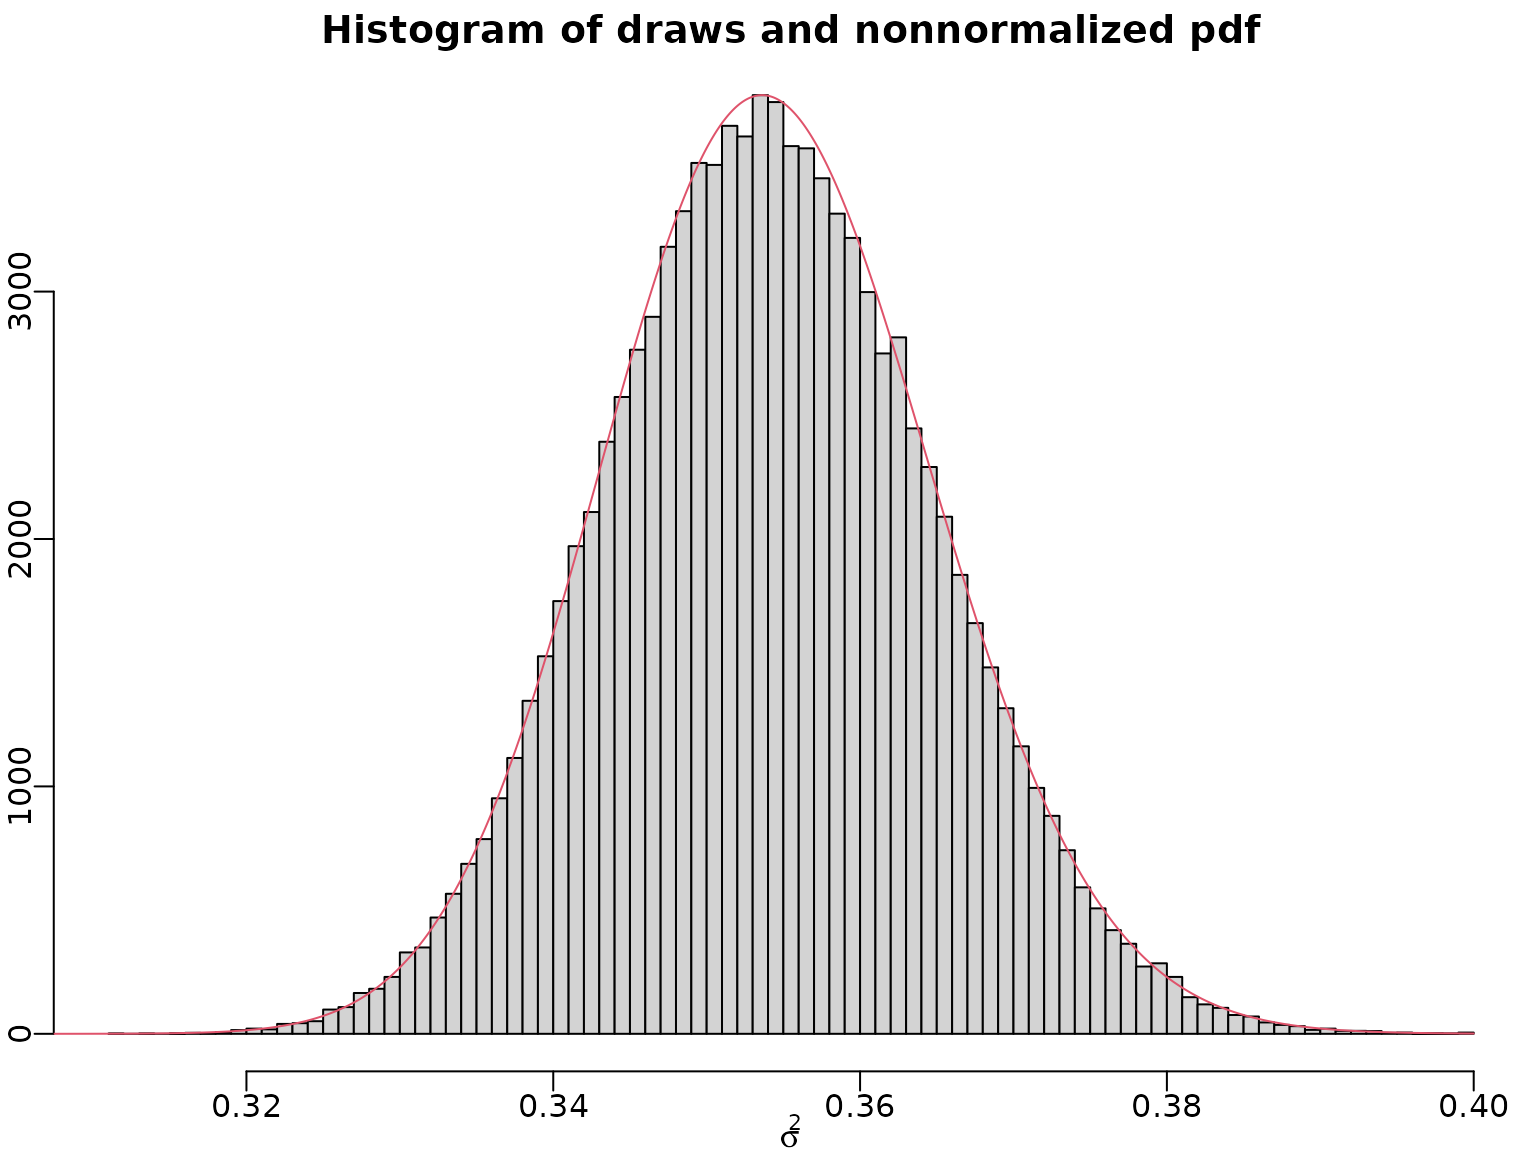
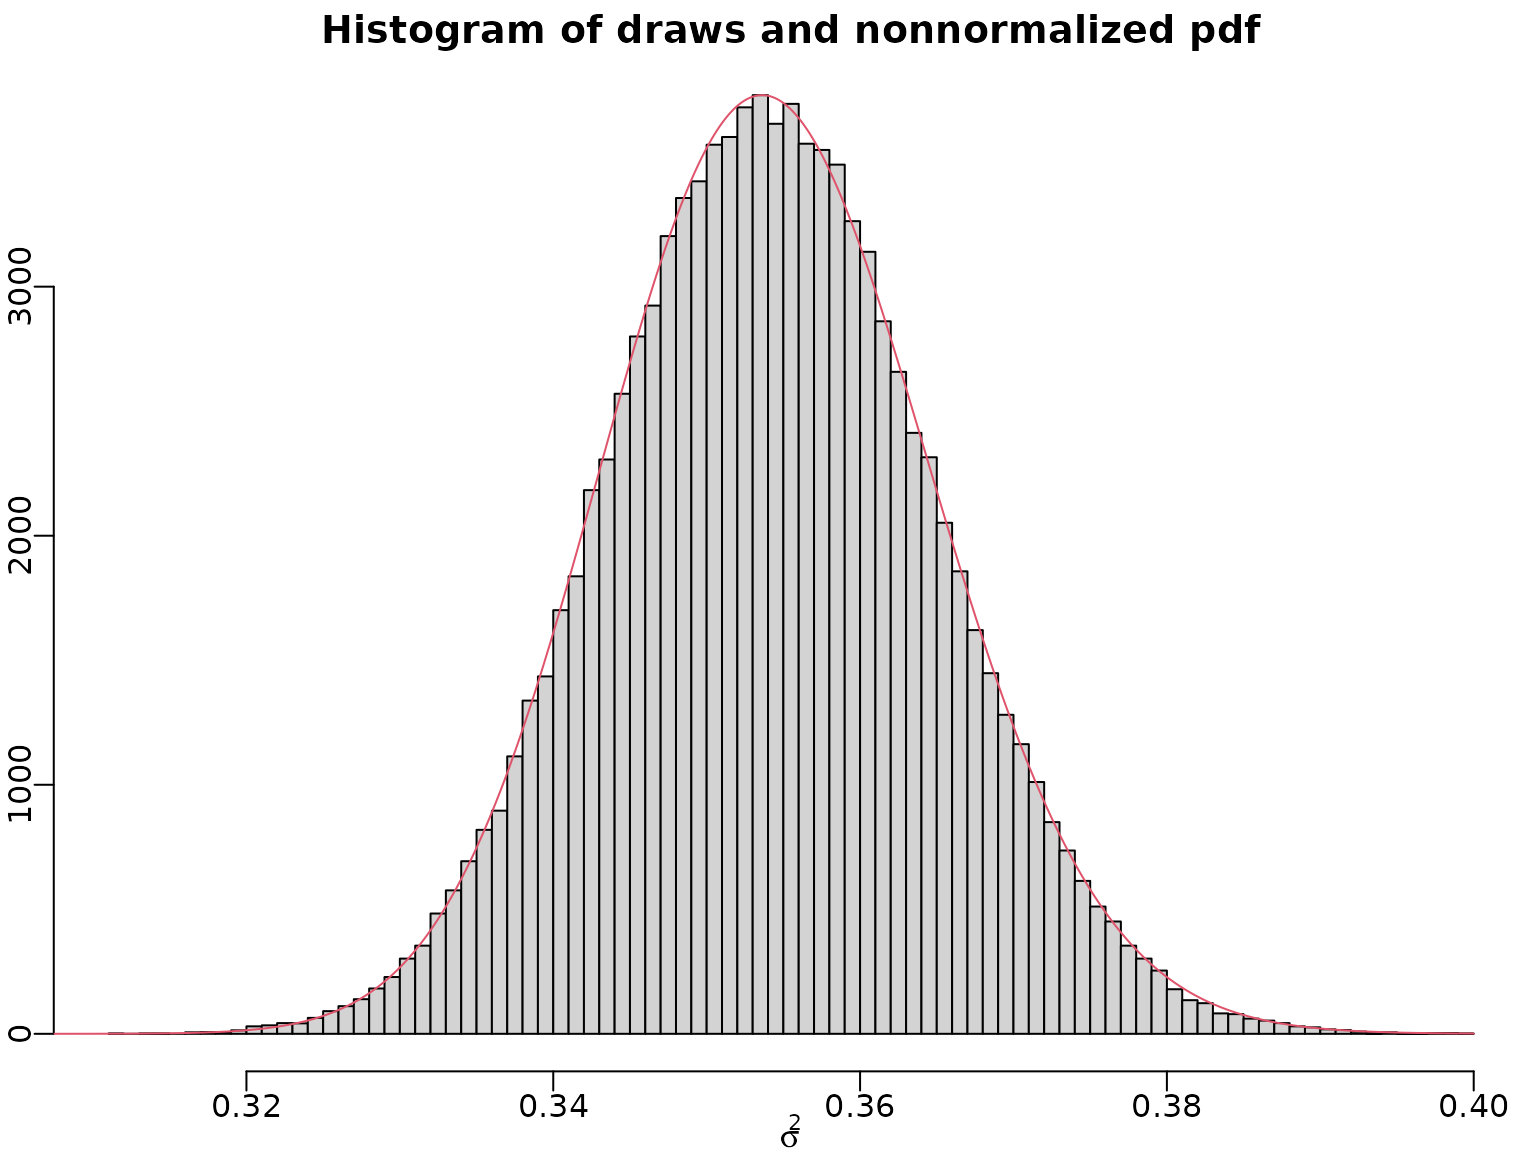
Deploying to gh-pages from @ gregorkastner/BayesianLearningCode@a200779b6965870e2d02ea35860350c8d1ae64b9 🚀

diff --git a/articles/Chapter04.html b/articles/Chapter04.html
@@ -304,10 +304,13 @@ fasted of all methods in R, but will do just fine for our use-case).</p>
 </h3>
 <p>To learn about the distribution of a certain low quantile, the
 Value-at-Risk (VaR), we can generate draws from it. For the Gaussian
-model, we simulate from
-<math display="inline" xmlns="http://www.w3.org/1998/Math/MathML"><semantics><mrow><msup><mi>𝒢</mi><mrow><mo>−</mo><mn>1</mn></mrow></msup><mrow><mo stretchy="true" form="prefix">(</mo><msub><mi>c</mi><mi>N</mi></msub><mo>,</mo><msub><mi>C</mi><mi>N</mi></msub><mo stretchy="true" form="postfix">)</mo></mrow></mrow><annotation encoding="application/x-tex">\mathcal{G}^{-1}(c_N, C_N)</annotation></semantics></math>
-and then, conditionally on these draws, from
-<math display="inline" xmlns="http://www.w3.org/1998/Math/MathML"><semantics><mrow><mi>𝒩</mi><mrow><mo stretchy="true" form="prefix">(</mo><mover><mi>y</mi><mo accent="true">‾</mo></mover><mo>,</mo><msup><mi>σ</mi><mn>2</mn></msup><mi>/</mi><mi>N</mi><mo stretchy="true" form="postfix">)</mo></mrow></mrow><annotation encoding="application/x-tex">\mathcal{N}(\bar{y}, \sigma^2 / N)</annotation></semantics></math>.
+model with mean zero and
+<math display="inline" xmlns="http://www.w3.org/1998/Math/MathML"><semantics><mrow><mi>p</mi><mrow><mo stretchy="true" form="prefix">(</mo><msup><mi>σ</mi><mn>2</mn></msup><mo stretchy="true" form="postfix">)</mo></mrow><mo>∝</mo><msup><mi>σ</mi><mrow><mo>−</mo><mn>2</mn></mrow></msup></mrow><annotation encoding="application/x-tex">p(\sigma^2) \propto \sigma^{-2}</annotation></semantics></math>,
+we simulate from
+<math display="inline" xmlns="http://www.w3.org/1998/Math/MathML"><semantics><mrow><msup><mi>𝒢</mi><mrow><mo>−</mo><mn>1</mn></mrow></msup><mrow><mo stretchy="true" form="prefix">(</mo><mi>N</mi><mi>/</mi><mn>2</mn><mo>,</mo><mo>∑</mo><msubsup><mi>y</mi><mi>i</mi><mn>2</mn></msubsup><mi>/</mi><mn>2</mn><mo stretchy="true" form="postfix">)</mo></mrow></mrow><annotation encoding="application/x-tex">\mathcal{G}^{-1}(N/2, \sum{y_i^2}/2)</annotation></semantics></math>
+and then, conditionally on these draws, compute the quantiles of
+interest from
+<math display="inline" xmlns="http://www.w3.org/1998/Math/MathML"><semantics><mrow><mi>𝒩</mi><mrow><mo stretchy="true" form="prefix">(</mo><mn>0</mn><mo>,</mo><msup><mi>σ</mi><mn>2</mn></msup><mo stretchy="true" form="postfix">)</mo></mrow></mrow><annotation encoding="application/x-tex">\mathcal{N}(0, \sigma^2)</annotation></semantics></math>.
 Note, again, that R’s vectorization ability comes in handy. Here, in
 particular, <em>rnorm</em> can handle the so-called <em>varying
 parameter case</em>.</p>
@@ -315,9 +318,8 @@ parameter case</em>.</p>
 <code class="sourceCode R"><span><span class="fu"><a href="https://rdrr.io/r/base/Random.html" class="external-link">set.seed</a></span><span class="op">(</span><span class="fl">42</span><span class="op">)</span></span>
 <span><span class="va">alpha</span> <span class="op">&lt;-</span> <span class="fl">0.005</span></span>
 <span><span class="va">ndraws</span> <span class="op">&lt;-</span> <span class="fl">100000</span></span>
-<span><span class="va">sigma2draws</span> <span class="op">&lt;-</span> <span class="fu">rinvgamma</span><span class="op">(</span><span class="va">ndraws</span>, <span class="va">cN</span>, <span class="va">CN</span><span class="op">)</span></span>
-<span><span class="va">mudraws</span> <span class="op">&lt;-</span> <span class="fu"><a href="https://rdrr.io/r/stats/Normal.html" class="external-link">rnorm</a></span><span class="op">(</span><span class="va">ndraws</span>, <span class="fu"><a href="https://rdrr.io/r/base/mean.html" class="external-link">mean</a></span><span class="op">(</span><span class="va">y</span><span class="op">)</span>, <span class="fu"><a href="https://rdrr.io/r/base/MathFun.html" class="external-link">sqrt</a></span><span class="op">(</span><span class="va">sigma2draws</span> <span class="op">/</span> <span class="va">N</span><span class="op">)</span><span class="op">)</span></span>
-<span><span class="va">qnormdraws</span> <span class="op">&lt;-</span> <span class="fu"><a href="https://rdrr.io/r/stats/Normal.html" class="external-link">qnorm</a></span><span class="op">(</span><span class="va">alpha</span>, <span class="va">mudraws</span>, <span class="fu"><a href="https://rdrr.io/r/base/MathFun.html" class="external-link">sqrt</a></span><span class="op">(</span><span class="va">sigma2draws</span><span class="op">)</span><span class="op">)</span></span></code></pre></div>
+<span><span class="va">sigma2draws</span> <span class="op">&lt;-</span> <span class="fu">rinvgamma</span><span class="op">(</span><span class="va">ndraws</span>, <span class="va">N</span> <span class="op">/</span> <span class="fl">2</span>, <span class="fu"><a href="https://rdrr.io/r/base/sum.html" class="external-link">sum</a></span><span class="op">(</span><span class="va">y</span><span class="op">^</span><span class="fl">2</span><span class="op">)</span> <span class="op">/</span> <span class="fl">2</span><span class="op">)</span></span>
+<span><span class="va">qnormdraws</span> <span class="op">&lt;-</span> <span class="fu"><a href="https://rdrr.io/r/stats/Normal.html" class="external-link">qnorm</a></span><span class="op">(</span><span class="va">alpha</span>, <span class="fl">0</span>, <span class="fu"><a href="https://rdrr.io/r/base/MathFun.html" class="external-link">sqrt</a></span><span class="op">(</span><span class="va">sigma2draws</span><span class="op">)</span><span class="op">)</span></span></code></pre></div>
 <p>For the
 <math display="inline" xmlns="http://www.w3.org/1998/Math/MathML"><semantics><mi>t</mi><annotation encoding="application/x-tex">t</annotation></semantics></math>
 model, we can use inverse transform sampling. First, we draw uniformly
@@ -349,7 +351,7 @@ draws.</p>
 <span>                length.out <span class="op">=</span> <span class="fl">100</span><span class="op">)</span></span>
 <span><span class="fu"><a href="https://rdrr.io/r/graphics/hist.html" class="external-link">hist</a></span><span class="op">(</span><span class="va">qnormdraws</span>, breaks <span class="op">=</span> <span class="va">mybreaks</span>, ylab <span class="op">=</span> <span class="st">""</span>, xlab <span class="op">=</span> <span class="fu"><a href="https://rdrr.io/r/base/bquote.html" class="external-link">bquote</a></span><span class="op">(</span><span class="va">Q</span><span class="op">[</span><span class="fu">.</span><span class="op">(</span><span class="va">alpha</span><span class="op">)</span><span class="op">]</span><span class="op">)</span>,</span>
 <span>     main <span class="op">=</span> <span class="fu"><a href="https://rdrr.io/r/base/bquote.html" class="external-link">bquote</a></span><span class="op">(</span><span class="st">"Histogram of posterior"</span> <span class="op">~</span> <span class="fu">.</span><span class="op">(</span><span class="fl">100</span> <span class="op">*</span> <span class="va">alpha</span><span class="op">)</span> <span class="op">*</span></span>
-<span>                   <span class="st">"%-VaR draws under the"</span> <span class="op">~</span> <span class="fu">N</span><span class="op">(</span><span class="va">mu</span>, <span class="va">sigma</span><span class="op">^</span><span class="fl">2</span><span class="op">)</span> <span class="op">~</span></span>
+<span>                   <span class="st">"%-VaR draws under the"</span> <span class="op">~</span> <span class="fu">N</span><span class="op">(</span><span class="fl">0</span>, <span class="va">sigma</span><span class="op">^</span><span class="fl">2</span><span class="op">)</span> <span class="op">~</span></span>
 <span>                   <span class="st">"likelihood assumption"</span><span class="op">)</span>, prob <span class="op">=</span> <span class="cn">TRUE</span><span class="op">)</span></span>
 <span><span class="fu"><a href="https://rdrr.io/r/graphics/points.html" class="external-link">points</a></span><span class="op">(</span><span class="fu"><a href="https://rdrr.io/r/stats/quantile.html" class="external-link">quantile</a></span><span class="op">(</span><span class="va">y</span>, <span class="va">alpha</span><span class="op">)</span>, <span class="fl">0</span>, col <span class="op">=</span> <span class="fl">2</span>, pch <span class="op">=</span> <span class="fl">16</span>, cex <span class="op">=</span> <span class="fl">1.5</span><span class="op">)</span></span>
 <span><span class="fu"><a href="https://rdrr.io/r/graphics/hist.html" class="external-link">hist</a></span><span class="op">(</span><span class="va">qtdraws</span>, breaks <span class="op">=</span> <span class="va">mybreaks</span>, ylab <span class="op">=</span> <span class="st">""</span>, xlab <span class="op">=</span> <span class="fu"><a href="https://rdrr.io/r/base/bquote.html" class="external-link">bquote</a></span><span class="op">(</span><span class="va">Q</span><span class="op">[</span><span class="fu">.</span><span class="op">(</span><span class="va">alpha</span><span class="op">)</span><span class="op">]</span><span class="op">)</span>,</span>
